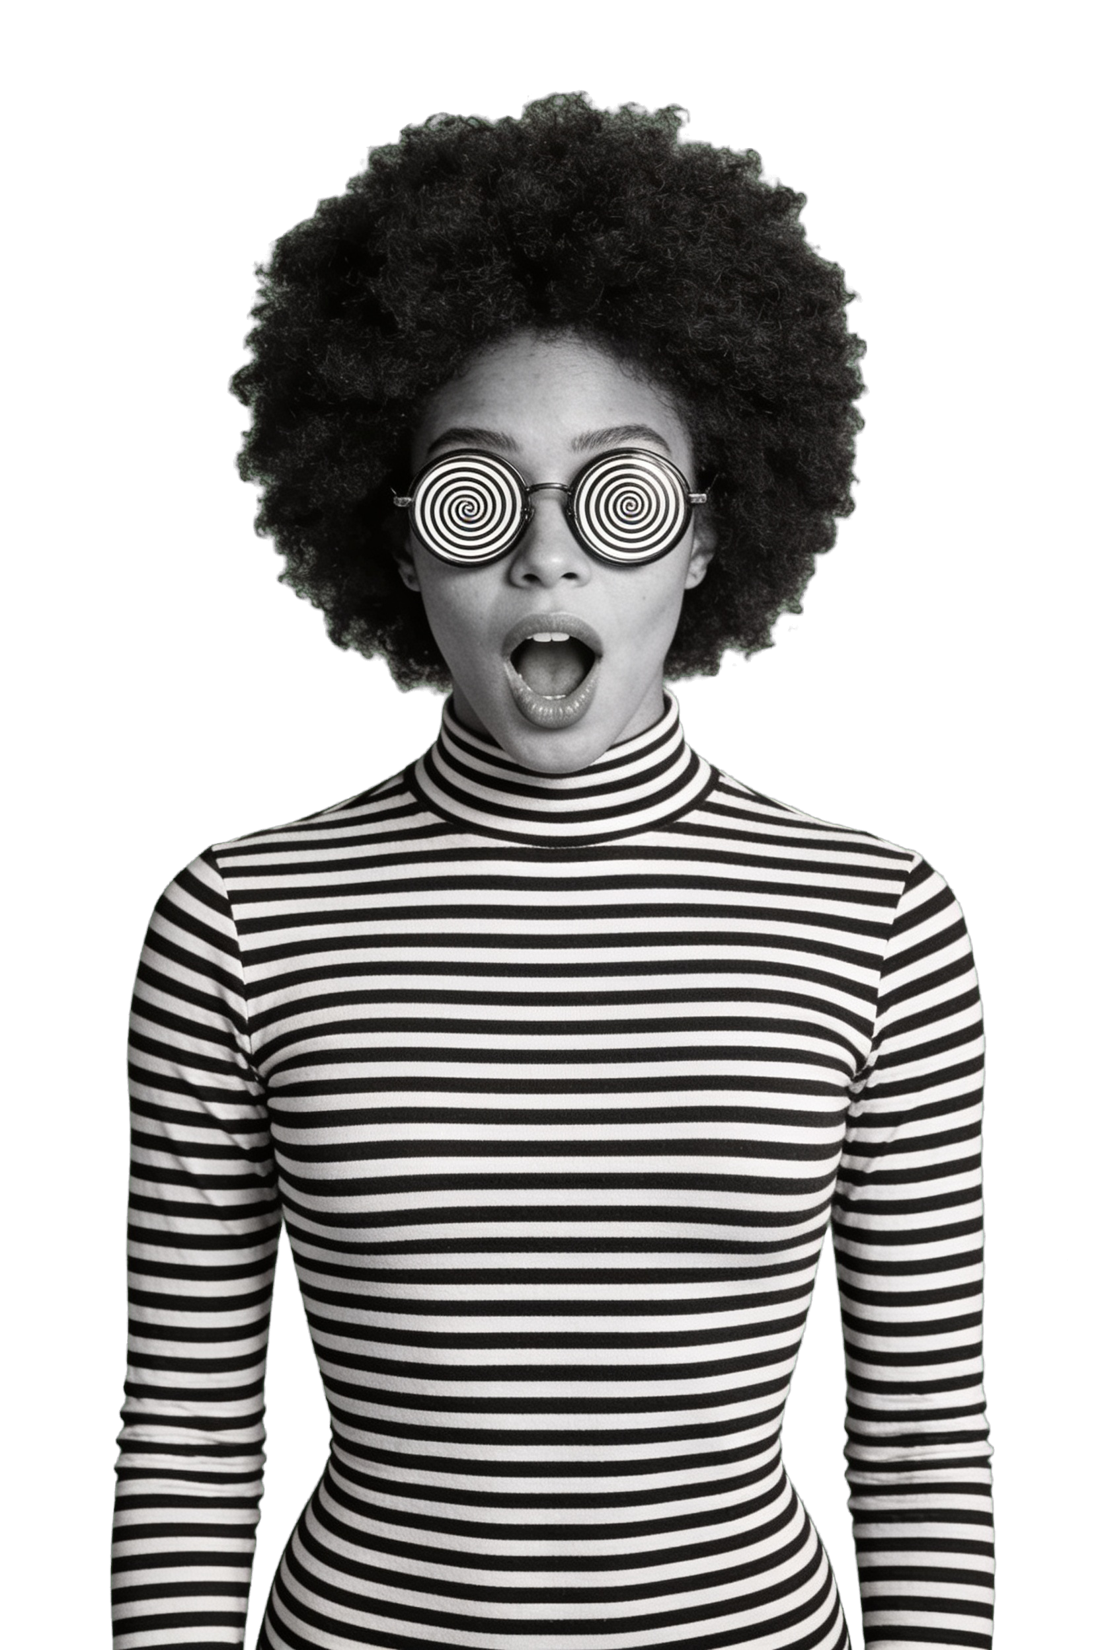
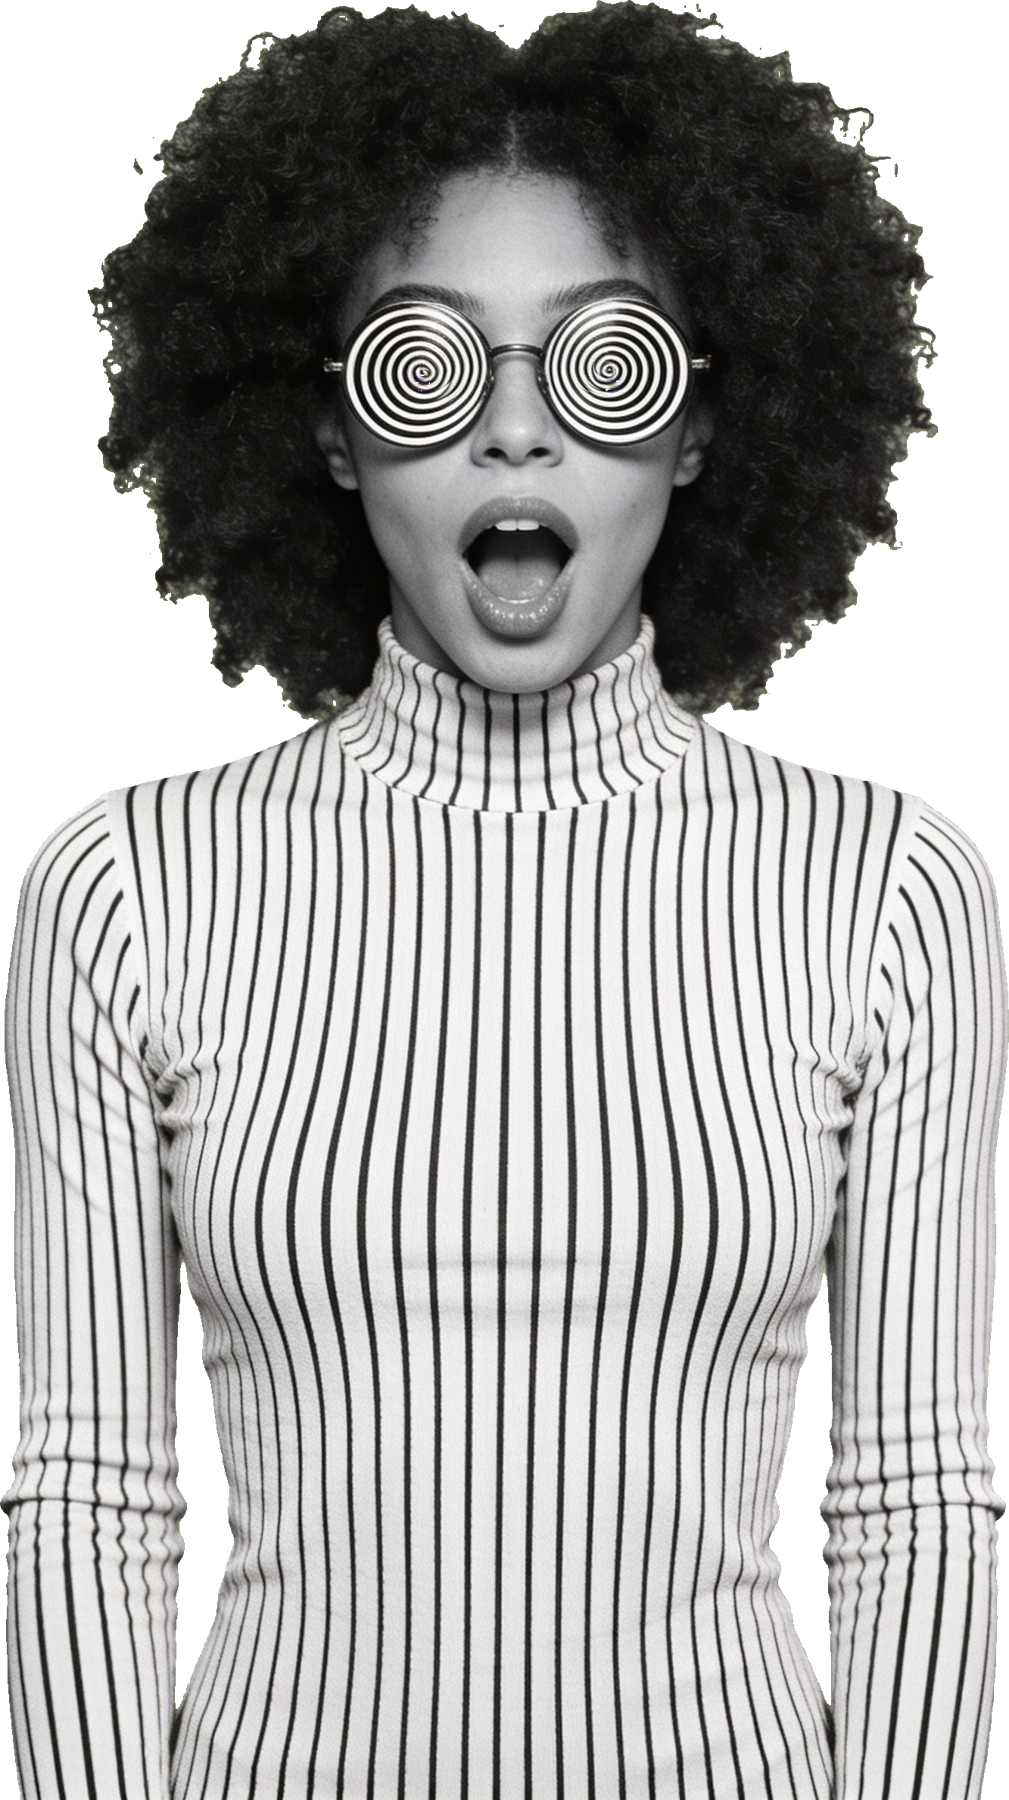
ameizing: new woman cutout matching reference body, figure box to fit

diff --git a/ameizing/index.html b/ameizing/index.html
@@ -51,7 +51,7 @@ body.dark .nav-cta{border-color:#fff}
 .vidwrap.loop .v2{opacity:1}
 
 /* opening caption: one word at a time as you scroll, each centered on the heart of the rings, then the last fades into the rings */
-.fab{position:absolute;inset:0;z-index:1;display:grid;place-items:center;text-align:center;font-family:var(--poster);color:#fff;
+.fab{position:absolute;inset:0;z-index:1;display:grid;place-items:center;text-align:center;font-family:var(--poster);color:var(--gold);
   line-height:1;letter-spacing:.01em;will-change:opacity,transform;pointer-events:none}
 .fab .fw{grid-area:1/1;white-space:nowrap;opacity:0;transform:translateX(-.35em) skewX(-8deg);
   transition:opacity .3s,transform .5s cubic-bezier(.2,1.2,.3,1)}
@@ -59,17 +59,18 @@ body.dark .nav-cta{border-color:#fff}
 .fab .fw.gone{opacity:0;transform:translateX(.25em) skewX(6deg);transition:opacity .22s,transform .22s}
 
 /* the figure box keeps the cutout's proportions so each word can be measured against her shoulders */
-.figure{position:relative;z-index:2;width:min(96vw,calc(98vh * 1100 / 1650));aspect-ratio:1100/1650;
+.figure{position:relative;z-index:2;width:min(96vw,calc(98vh * 1009 / 1800));aspect-ratio:1009/1800;
   transform:translateY(105%);transform-origin:50% 100%;will-change:transform}
 .woman{width:100%;height:100%;object-fit:contain;object-position:bottom}
 .cap{position:absolute;z-index:3;left:0;right:0;top:53%;height:30%;pointer-events:none;display:grid;place-items:center}
-.figure .w{grid-area:1/1;font-family:var(--display);font-weight:800;color:#000;line-height:1;letter-spacing:-.03em;white-space:nowrap;
+.figure .w{grid-area:1/1;font-family:var(--display);font-weight:800;color:#000;-webkit-text-stroke:.05em #fff;paint-order:stroke fill;
+  line-height:1;letter-spacing:-.03em;white-space:nowrap;
   opacity:0;transform:scale(.5);transition:opacity .3s,transform .55s cubic-bezier(.2,1.4,.3,1)}
 .figure .w.on{opacity:1;transform:none}
 .figure .w.gone{opacity:0;transform:scale(1.25);transition:opacity .25s,transform .25s}
 
 .bigwrap{position:absolute;z-index:3;left:50%;top:60%;width:100vw;height:0;transform:translateX(-50%);display:grid;place-items:center;pointer-events:none}
-.bigwrap .w{color:#fff;font-weight:900;-webkit-text-stroke:.03em #000;paint-order:stroke fill}
+.bigwrap .w{color:#000;font-weight:900;-webkit-text-stroke:.035em #fff;paint-order:stroke fill}
 
 
 /* ---------- portfolio, on black ---------- */
@@ -91,10 +92,10 @@ body.dark .nav-cta{border-color:#fff}
 .work-head.in .eyebrow{opacity:1;transform:none}
 .work-head.in p{opacity:1;transform:none;transition-delay:.9s}
 .work-head p{margin:18px auto 0;max-width:46ch;font-weight:500;color:rgba(255,255,255,.8)}
-.grid{display:grid;grid-template-columns:repeat(3,1fr);gap:clamp(16px,2.2vw,28px)}
+.grid{display:flex;flex-direction:column;gap:clamp(30px,6vh,70px);max-width:920px;margin:0 auto}
 .card{background:#fff;color:var(--ink);text-decoration:none;display:flex;flex-direction:column;overflow:hidden;transition:transform .2s}
 .card:hover{transform:translateY(-4px)}
-.card .cover{aspect-ratio:16/11;overflow:hidden;background:var(--gold-deep);position:relative}
+.card .cover{aspect-ratio:16/10;overflow:hidden;background:var(--gold-deep);position:relative}
 .card .cover img{width:100%;height:100%;object-fit:cover}
 .card .ph{width:100%;height:100%;display:flex;align-items:center;justify-content:center;color:#fff;font-family:var(--display);
   font-weight:700;font-size:clamp(20px,2.2vw,30px);letter-spacing:-.01em;text-align:center;padding:16px}
@@ -229,8 +230,10 @@ footer .base{margin-top:9vh;font-size:12px;letter-spacing:.1em;text-transform:up
     if(vid.currentTime>=MATCH-0.03){startLoop();return}
     requestAnimationFrame(watchIntro);
   }
+  function playFromStart(){ vid.currentTime=0; vidT=0; vid.play().then(watchIntro).catch(function(){ startLoop(); }); }
   if(!reduced){
-    vid.play().then(watchIntro).catch(function(){ startLoop(); });   /* autoplay refused: go straight to the loop */
+    if(vid.readyState>=1){ playFromStart(); }
+    else { vid.addEventListener('loadeddata', playFromStart, {once:true}); vid.load(); }
   }else{
     vid.addEventListener('loadedmetadata',function(){vid.currentTime=MATCH});
   }
@@ -318,7 +321,9 @@ footer .base{margin-top:9vh;font-size:12px;letter-spacing:.1em;text-transform:up
     var d=ease((p-0.84)/0.10);
     fig.style.transform='translateY('+((1-b)*105)+'%) scale('+(1-d*.12)+')';
     fig.style.opacity=1-d;
-    var idx=p<0.48?-1:p>0.86?4:Math.min(Math.floor((p-0.48)/0.09),3);
+    /* people / will / be, then ameized holds longest and is gone before she leaves (0.84) */
+    var idx;
+    if(p<0.48)idx=-1; else if(p<0.56)idx=0; else if(p<0.62)idx=1; else if(p<0.68)idx=2; else if(p<0.80)idx=3; else idx=4;
     if(idx!==cur){
       words.forEach(function(w,i){w.classList.toggle('on',i===idx);w.classList.toggle('gone',i<idx)});
       cur=idx;
